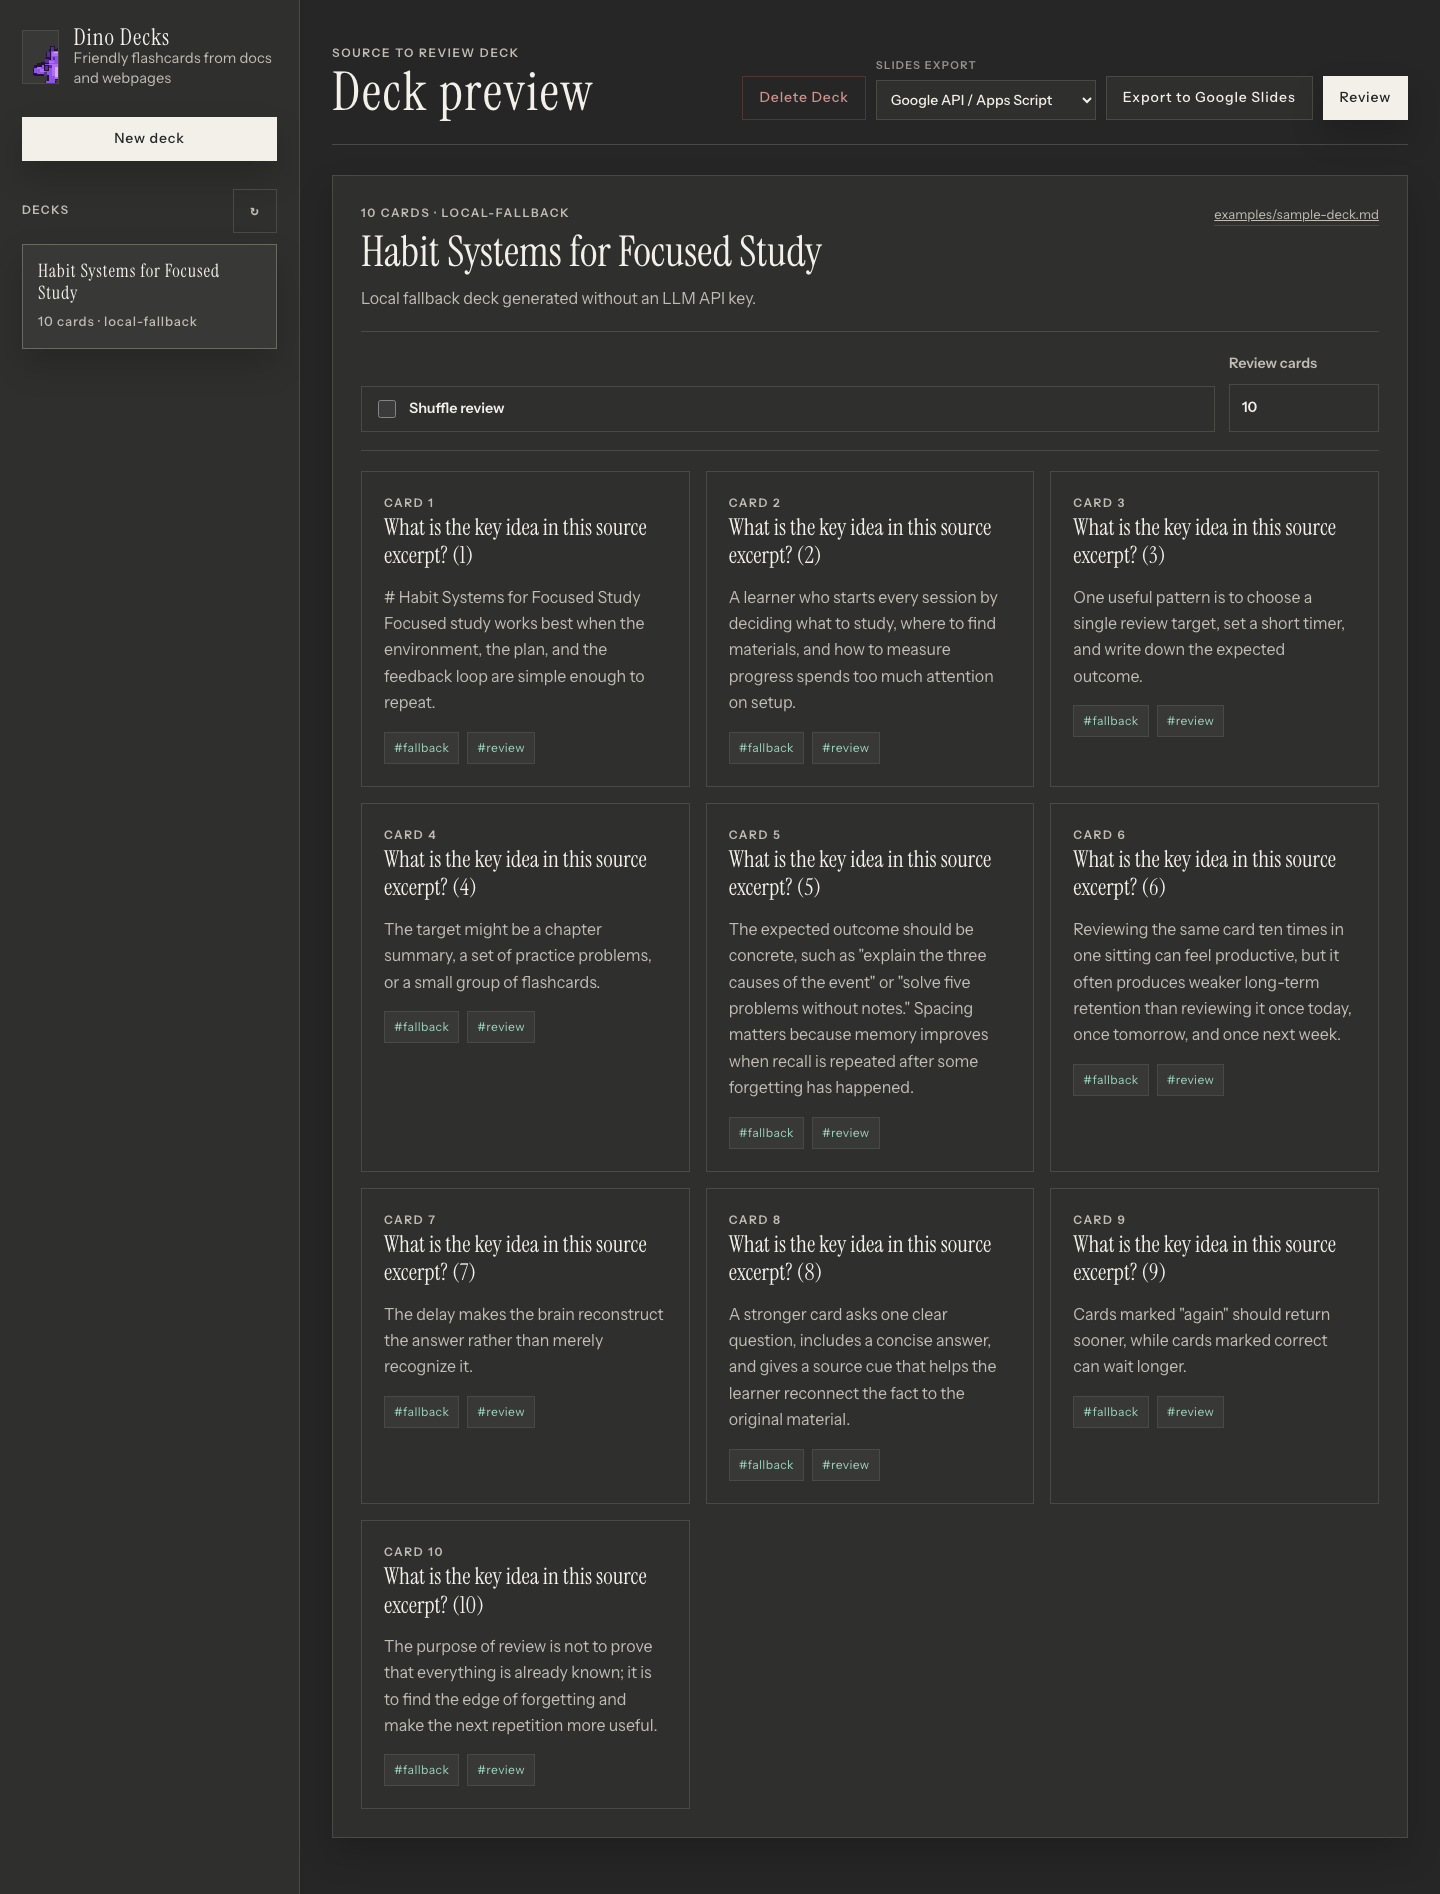
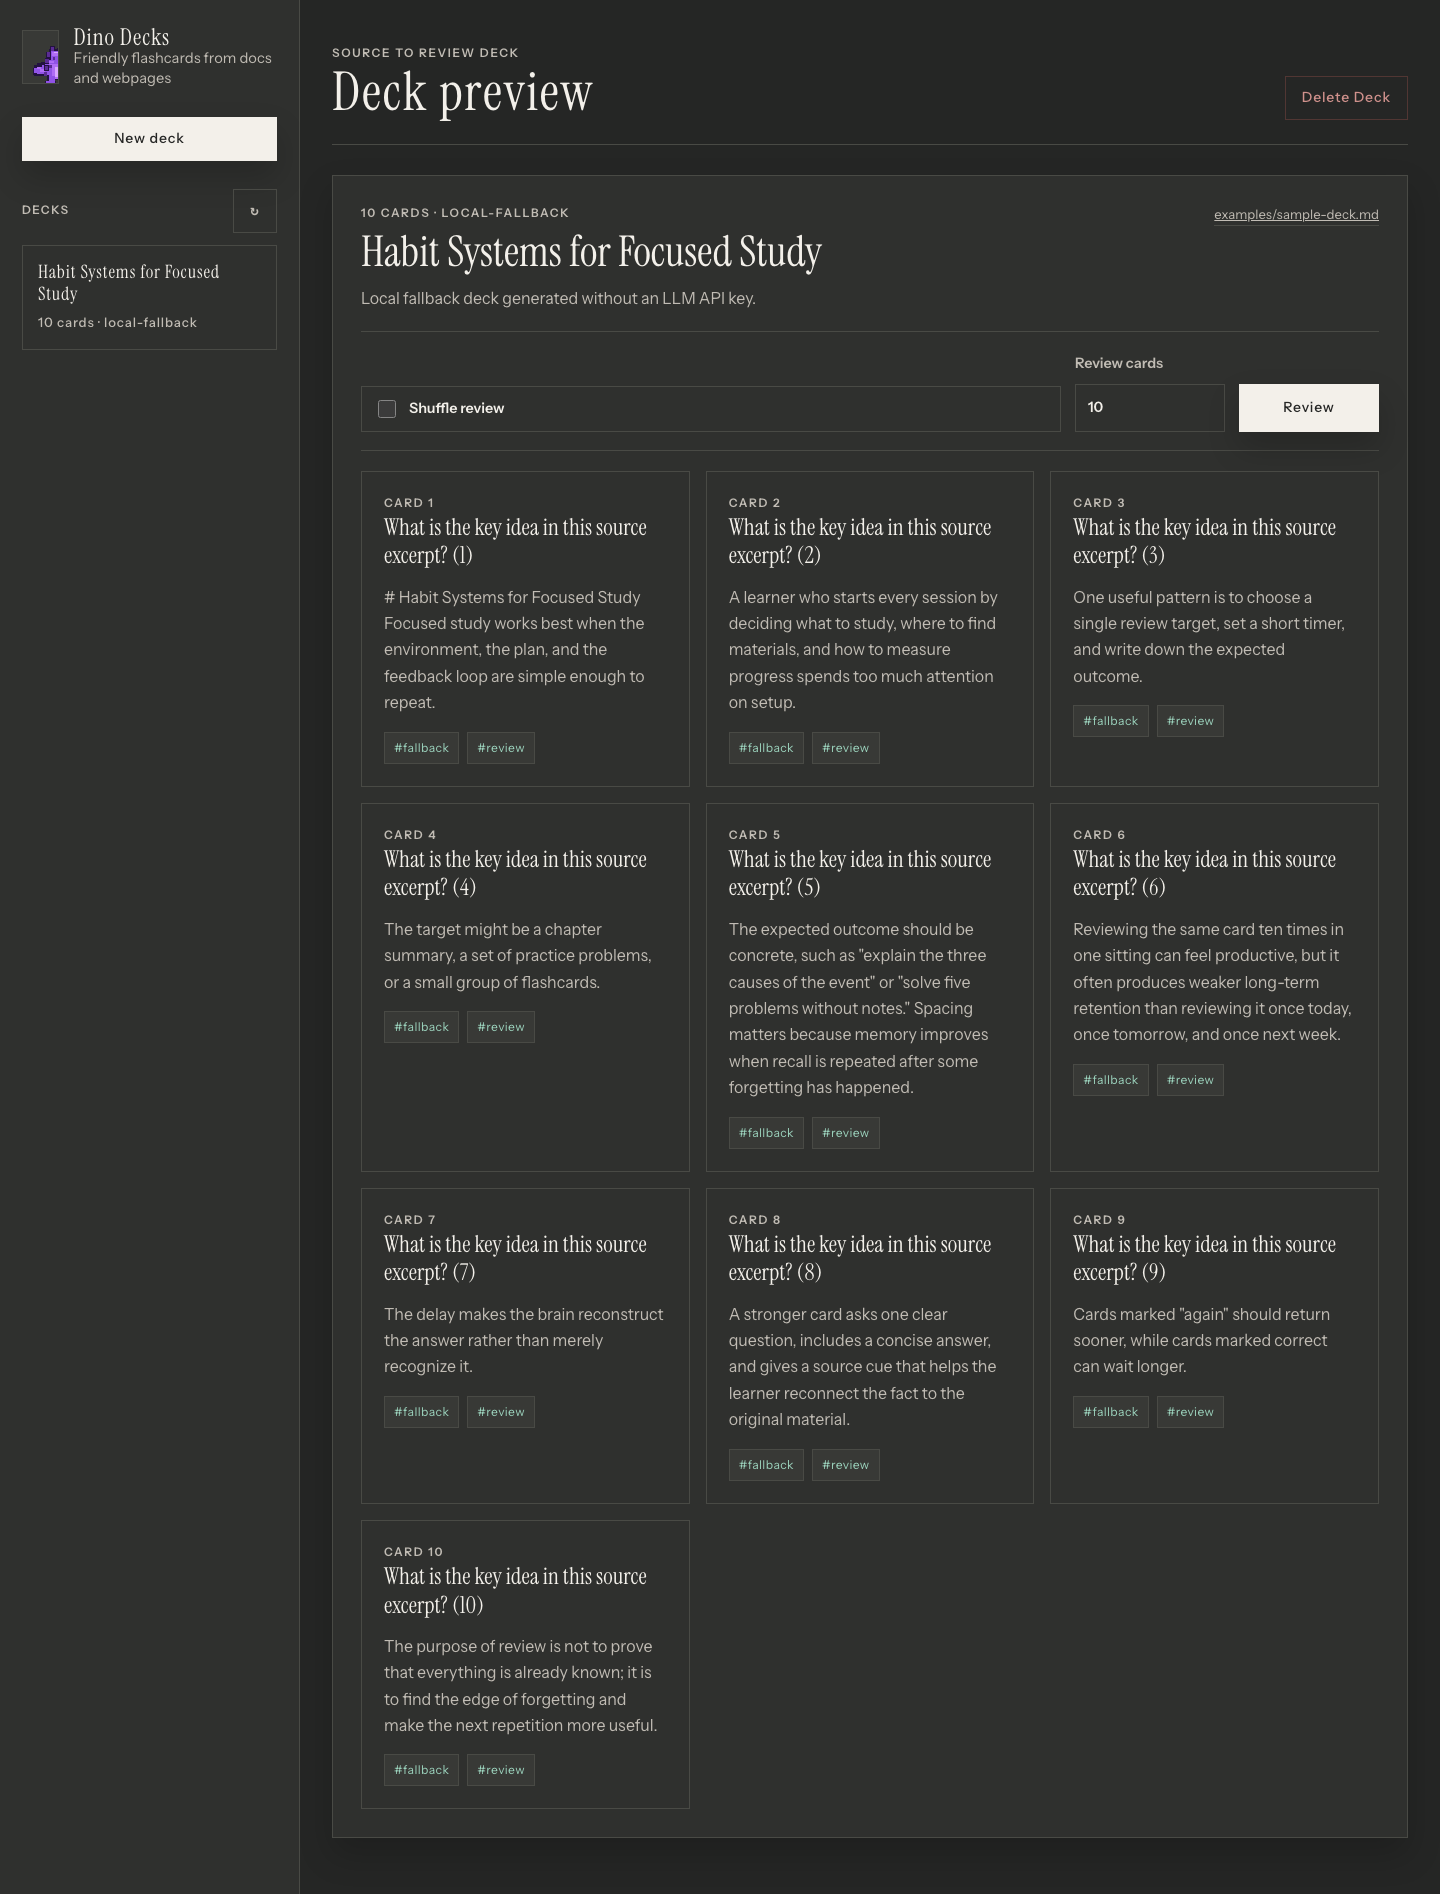
Update deck review controls

diff --git a/static/app.js b/static/app.js
@@ -182,13 +182,11 @@ function showGenerator() {
 }
 
 function setDeckActionsVisible(isVisible) {
-  ["#startReview", "#exportSlides", "#deleteDeck"].forEach((selector) => {
+  ["#startReview", "#deleteDeck"].forEach((selector) => {
     const button = document.querySelector(selector);
     button.disabled = !isVisible;
     button.classList.toggle("hidden", !isVisible);
   });
-  document.querySelector("#exportProviderField").classList.toggle("hidden", !isVisible);
-  document.querySelector("#exportProvider").disabled = !isVisible;
 }
 
 function renderDeck(deck) {
@@ -366,35 +364,6 @@ function handleReviewKeydown(event) {
   }
 }
 
-async function exportSlides() {
-  if (!currentDeck) return;
-  const dialog = document.querySelector("#exportDialog");
-  const link = document.querySelector("#slidesLink");
-  const script = document.querySelector("#appsScript");
-  link.classList.add("hidden");
-  script.classList.add("hidden");
-  document.querySelector("#exportMessage").textContent = "Exporting...";
-  dialog.showModal();
-  try {
-    const provider = document.querySelector("#exportProvider").value;
-    const result = await api("/api/export/slides", {
-      method: "POST",
-      body: JSON.stringify({ slug: currentDeck.slug, provider }),
-    });
-    if (result.mode === "direct") {
-      document.querySelector("#exportMessage").textContent = "Created a Google Slides deck.";
-      link.href = result.url;
-      link.classList.remove("hidden");
-    } else {
-      document.querySelector("#exportMessage").textContent = result.message;
-      script.value = result.apps_script || "";
-      script.classList.remove("hidden");
-    }
-  } catch (error) {
-    document.querySelector("#exportMessage").textContent = error.message;
-  }
-}
-
 async function deleteCurrentDeck() {
   if (!currentDeck) return;
   const confirmed = window.confirm(`Delete "${currentDeck.title}"? This removes the markdown deck file.`);
@@ -477,7 +446,6 @@ document.querySelector("#markAgain").addEventListener("click", () => markReviewR
 document.querySelector("#markCorrect").addEventListener("click", () => markReviewResult("correct"));
 document.querySelector("#reviewAgain").addEventListener("click", startReview);
 document.querySelector("#backToDeck").addEventListener("click", () => renderDeck(currentDeck));
-document.querySelector("#exportSlides").addEventListener("click", exportSlides);
 document.querySelector("#deleteDeck").addEventListener("click", deleteCurrentDeck);
 document.querySelector(".review-card").addEventListener("click", handleReviewCardTap);
 document.addEventListener("keydown", handleReviewKeydown);

diff --git a/static/index.html b/static/index.html
@@ -45,16 +45,6 @@
         </div>
         <div class="toolbar-actions">
           <button id="deleteDeck" class="danger hidden" disabled>Delete Deck</button>
-          <label id="exportProviderField" class="toolbar-select hidden">
-            <span>Slides export</span>
-            <select id="exportProvider" disabled>
-              <option value="google">Google API / Apps Script</option>
-              <option value="codex">Codex CLI Apps Script</option>
-              <option value="gemini">Gemini CLI Apps Script</option>
-            </select>
-          </label>
-          <button id="exportSlides" class="secondary hidden" disabled>Export to Google Slides</button>
-          <button id="startReview" class="primary hidden" disabled>Review</button>
         </div>
       </section>
 
@@ -129,6 +119,7 @@
             Review cards
             <input id="reviewLimit" type="number" min="1" value="10">
           </label>
+          <button id="startReview" class="primary hidden" disabled>Review</button>
         </div>
         <div id="cardGrid" class="card-grid"></div>
       </section>
@@ -172,16 +163,6 @@
         </div>
       </section>
     </main>
-
-    <dialog id="exportDialog">
-      <form method="dialog" class="dialog-body">
-        <h3>Google Slides export</h3>
-        <p id="exportMessage"></p>
-        <a id="slidesLink" class="primary link-button" target="_blank" rel="noreferrer">Open slides</a>
-        <textarea id="appsScript" class="hidden" readonly></textarea>
-        <button class="secondary">Close</button>
-      </form>
-    </dialog>
 
     <div id="toast" class="toast hidden"></div>
     <script src="/static/app.js"></script>

diff --git a/static/styles.css b/static/styles.css
@@ -312,25 +312,6 @@ button:disabled {
   flex-wrap: wrap;
 }
 
-.toolbar-select {
-  display: grid;
-  gap: 5px;
-  min-width: 220px;
-  color: var(--soft);
-  font-size: 0.68rem;
-  font-weight: 600;
-  letter-spacing: 0.12em;
-  text-transform: uppercase;
-}
-
-.toolbar-select select {
-  min-height: 40px;
-  padding: 8px 10px;
-  text-transform: none;
-  font-size: 0.88rem;
-  font-weight: 500;
-}
-
 .eyebrow {
   font-size: 0.74rem;
   text-transform: uppercase;
@@ -430,12 +411,16 @@ textarea {
 
 .review-options {
   display: grid;
-  grid-template-columns: minmax(0, 1fr) 150px;
+  grid-template-columns: minmax(0, 1fr) 150px 140px;
   align-items: end;
   gap: 14px;
   border-bottom: 1px solid var(--line);
   padding-bottom: 18px;
   margin-bottom: 20px;
+}
+
+.review-options #startReview {
+  min-height: 48px;
 }
 
 .checkbox-field {
@@ -942,15 +927,6 @@ dialog::backdrop {
     width: 100%;
   }
 
-  .toolbar-select {
-    grid-column: 1 / -1;
-    min-width: 0;
-  }
-
-  .toolbar-actions #exportSlides {
-    grid-column: 1 / -1;
-  }
-
   .panel,
   .review-shell,
   .study-card {
@@ -1071,10 +1047,7 @@ dialog::backdrop {
     grid-template-columns: 1fr;
   }
 
-  .toolbar-actions #exportSlides,
-  .toolbar-select,
-  .toolbar-actions #deleteDeck,
-  .toolbar-actions #startReview {
+  .toolbar-actions #deleteDeck {
     grid-column: 1;
   }
 }

diff --git a/README.md b/README.md
@@ -1,6 +1,6 @@
 # Google Doc Flashcards
 
-Local app for turning a Google Doc or webpage into 10-20 flashcards, saving the deck as markdown, reviewing cards in an Obsidian-style UI, and exporting to Google Slides.
+Local app for turning a Google Doc or webpage into 10-20 flashcards, saving the deck as markdown, and reviewing cards in an Obsidian-style UI.
 
 ## Run
 
@@ -20,7 +20,7 @@ HOST=0.0.0.0 python3 app.py
 
 Then open `http://<your-computer-ip>:8765` from the phone. This is intended for trusted private networks only. Do not expose this server directly to the public internet without adding authentication, HTTPS, and normal production hardening. For personal mobile access, use a private network tool such as Tailscale instead of port forwarding.
 
-The web UI includes PWA metadata and a service worker, so mobile browsers can install it as a standalone app. The app shell and static assets are cached, and every deck is pre-cached locally on load, so decks generated on the desktop can be reviewed on mobile fully offline once the phone has synced once. Generating, exporting, and deleting decks still require the live Python backend.
+The web UI includes PWA metadata and a service worker, so mobile browsers can install it as a standalone app. The app shell and static assets are cached, and every deck is pre-cached locally on load, so decks generated on the desktop can be reviewed on mobile fully offline once the phone has synced once. Generating and deleting decks still require the live Python backend.
 
 ## Examples
 
@@ -37,7 +37,7 @@ Decks live as markdown files on whichever machine runs `app.py`. To review deskt
 1. **Set a passcode.** In your `.env` or shell: `APP_PASSCODE=your-strong-passphrase`. When set, every request requires signing in once per device (a signed, HttpOnly cookie that expires after `APP_AUTH_TTL_DAYS`, default 30). When unset, the app stays open and localhost-only as before. To revoke every signed-in device at once without changing the passcode, set or rotate `APP_AUTH_SECRET`. When serving over HTTPS (e.g. Tailscale Serve or a TLS proxy), set `APP_COOKIE_SECURE=1` so the cookie is only sent over encrypted connections.
 2. **Bind to the network:** `HOST=0.0.0.0 APP_PASSCODE=... python3 app.py`. On startup the server prints the reachable URL.
 3. **Reach it from anywhere with [Tailscale](https://tailscale.com).** Install Tailscale on both the desktop and the phone (same account), then open `http://<desktop-tailscale-name>:8765` on the phone. Traffic stays on an encrypted private mesh with nothing exposed to the public internet. On the same Wi-Fi you can instead use the `http://<desktop-ip>:8765` URL the server prints.
-4. **Sign in once on the phone** with the passcode. Install to the home screen via the browser's "Add to Home Screen" for an app-like experience. After the first sync, all decks are cached for offline review; the desktop only needs to be awake to generate, export, or fetch new decks.
+4. **Sign in once on the phone** with the passcode. Install to the home screen via the browser's "Add to Home Screen" for an app-like experience. After the first sync, all decks are cached for offline review; the desktop only needs to be awake to generate, delete, or fetch new decks.
 
 To sign out a device, visit `/logout`. This passcode gate is meant to sit behind a private network like Tailscale, not to harden a server exposed directly to the public internet (which would also need HTTPS and additional hardening).
 
@@ -85,7 +85,7 @@ Generate without the OpenAI API from a local text or markdown file:
 python3 flashcards_cli.py generate --file notes.md --no-llm --title "Review Notes"
 ```
 
-Review and export from the terminal:
+Review from the terminal, or export a saved deck to Google Slides Apps Script:
 
 ```bash
 python3 flashcards_cli.py list
@@ -104,13 +104,13 @@ Copy `.env.example` values into your shell or `.env` workflow.
 - `CODEX_CLI_TIMEOUT` optionally changes the Codex CLI generation timeout, default `180` seconds.
 - `OPENAI_API_KEY` enables the optional OpenAI API generator.
 - `OPENAI_MODEL` defaults to `gpt-4o-mini`.
-- `GOOGLE_OAUTH_ACCESS_TOKEN` enables private Google Doc import and direct Google Slides export.
+- `GOOGLE_OAUTH_ACCESS_TOKEN` enables private Google Doc import and CLI/API Google Slides export.
 - `GEMINI_CLI_BIN` optionally points the Gemini CLI export provider at a specific `gemini` binary.
 - `GEMINI_CLI_TIMEOUT` optionally changes the Gemini CLI export timeout, default `180` seconds.
 
 Public Google Docs shared with anyone who has the link can be imported without a Google token. Without an OpenAI key, the app creates a local fallback deck for testing.
 Webpage import reads public `http://` or `https://` pages and extracts readable text from the HTML. Pages that require sign-in or block server-side fetches will not import unless you save their text locally and use `--file`.
-For Google Slides export, the web app provider selector and CLI flags can use the built-in Google API/Apps Script path, Codex CLI Apps Script generation, or Gemini CLI Apps Script generation.
+Google Slides export is currently available from the CLI/API rather than the web UI. The CLI flags can use the built-in Google API/Apps Script path, Codex CLI Apps Script generation, or Gemini CLI Apps Script generation.
 
 ## Development
 
